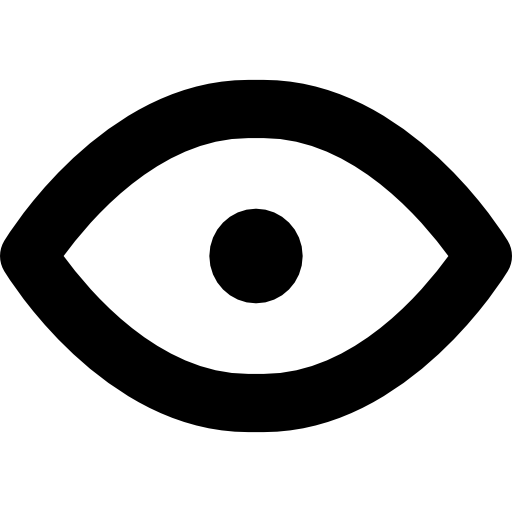
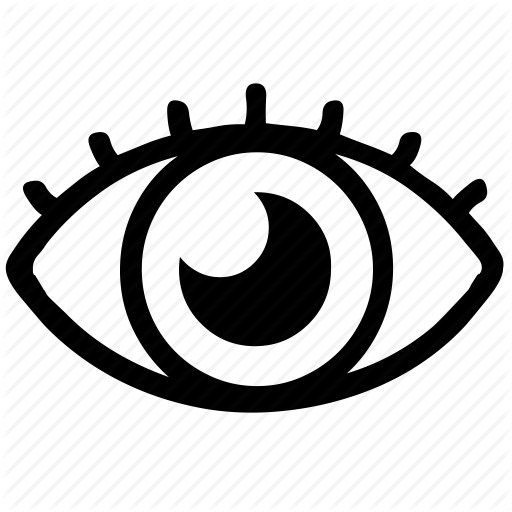
changes

diff --git a/data-profiler-server/templates/coords_visual.html b/data-profiler-server/templates/coords_visual.html
@@ -1,0 +1,121 @@
+{{ define "title" }}Dataset Coordinates{{ end }}
+{{ define "body" }}
+
+<script src="https://code.jquery.com/jquery-3.1.1.min.js"></script>
+
+<script src="https://code.highcharts.com/highcharts.js"></script>
+<script src="https://code.highcharts.com/highcharts-3d.js"></script>
+<script src="https://code.highcharts.com/modules/exporting.js"></script>
+
+<div id="container" style="height: 800px"></div>
+
+<script>
+
+// Give the points a 3D feel by adding a radial gradient
+Highcharts.getOptions().colors = $.map(Highcharts.getOptions().colors, function (color) {
+    return {
+        radialGradient: {
+            cx: 0.4,
+            cy: 0.3,
+            r: 0.5
+        },
+        stops: [
+            [0, color],
+            [1, Highcharts.Color(color).brighten(-0.2).get('rgb')]
+        ]
+    };
+});
+
+// Set up the chart
+var chart = new Highcharts.Chart({
+    chart: {
+        renderTo: 'container',
+        margin: 100,
+        type: 'scatter',
+        options3d: {
+            enabled: true,
+            alpha: 10,
+            beta: 30,
+            depth: 250,
+            viewDistance: 5,
+            fitToPlot: false,
+            frame: {
+                bottom: { size: 1, color: 'rgba(0,0,0,0.02)' },
+                back: { size: 1, color: 'rgba(0,0,0,0.04)' },
+                side: { size: 1, color: 'rgba(0,0,0,0.06)' }
+            }
+        }
+    },
+    title: {
+        text: 'Draggable box'
+    },
+    subtitle: {
+        text: 'Click and drag the plot area to rotate in space'
+    },
+    plotOptions: {
+        scatter: {
+            width: 10,
+            height: 10,
+            depth: 10
+        }
+    },
+    yAxis: {
+        min: 0,
+        max: 10,
+        title: null
+    },
+    xAxis: {
+        min: 0,
+        max: 10,
+        gridLineWidth: 1
+    },
+    zAxis: {
+        min: 0,
+        max: 10,
+        showFirstLabel: false
+    },
+    legend: {
+        enabled: false
+    },
+    series: [{
+        name: 'Reading',
+        colorByPoint: true,
+        data: [[1, 6, 5], [8, 7, 9], [1, 3, 4], [4, 6, 8], [5, 7, 7], [6, 9, 6], [7, 0, 5], [2, 3, 3], [3, 9, 8], [3, 6, 5], [4, 9, 4], [2, 3, 3], [6, 9, 9], [0, 7, 0], [7, 7, 9], [7, 2, 9], [0, 6, 2], [4, 6, 7], [3, 7, 7], [0, 1, 7], [2, 8, 6], [2, 3, 7], [6, 4, 8], [3, 5, 9], [7, 9, 5], [3, 1, 7], [4, 4, 2], [3, 6, 2], [3, 1, 6], [6, 8, 5], [6, 6, 7], [4, 1, 1], [7, 2, 7], [7, 7, 0], [8, 8, 9], [9, 4, 1], [8, 3, 4], [9, 8, 9], [3, 5, 3], [0, 2, 4], [6, 0, 2], [2, 1, 3], [5, 8, 9], [2, 1, 1], [9, 7, 6], [3, 0, 2], [9, 9, 0], [3, 4, 8], [2, 6, 1], [8, 9, 2], [7, 6, 5], [6, 3, 1], [9, 3, 1], [8, 9, 3], [9, 1, 0], [3, 8, 7], [8, 0, 0], [4, 9, 7], [8, 6, 2], [4, 3, 0], [2, 3, 5], [9, 1, 4], [1, 1, 4], [6, 0, 2], [6, 1, 6], [3, 8, 8], [8, 8, 7], [5, 5, 0], [3, 9, 6], [5, 4, 3], [6, 8, 3], [0, 1, 5], [6, 7, 3], [8, 3, 2], [3, 8, 3], [2, 1, 6], [4, 6, 7], [8, 9, 9], [5, 4, 2], [6, 1, 3], [6, 9, 5], [4, 8, 2], [9, 7, 4], [5, 4, 2], [9, 6, 1], [2, 7, 3], [4, 5, 4], [6, 8, 1], [3, 4, 0], [2, 2, 6], [5, 1, 2], [9, 9, 7], [6, 9, 9], [8, 4, 3], [4, 1, 7], [6, 2, 5], [0, 4, 9], [3, 5, 9], [6, 9, 1], [1, 9, 2]]
+    }]
+});
+
+
+// Add mouse events for rotation
+$(chart.container).on('mousedown.hc touchstart.hc', function (eStart) {
+    eStart = chart.pointer.normalize(eStart);
+
+    var posX = eStart.pageX,
+        posY = eStart.pageY,
+        alpha = chart.options.chart.options3d.alpha,
+        beta = chart.options.chart.options3d.beta,
+        newAlpha,
+        newBeta,
+        sensitivity = 5; // lower is more sensitive
+
+    $(document).on({
+        'mousemove.hc touchdrag.hc': function (e) {
+            // Run beta
+            newBeta = beta + (posX - e.pageX) / sensitivity;
+            chart.options.chart.options3d.beta = newBeta;
+
+            // Run alpha
+            newAlpha = alpha + (e.pageY - posY) / sensitivity;
+            chart.options.chart.options3d.alpha = newAlpha;
+
+            chart.redraw(false);
+        },
+        'mouseup touchend': function () {
+            $(document).off('.hc');
+        }
+    });
+});
+
+</script>
+{{ end }}
+
+{{ template "base.html" . }}

diff --git a/data-profiler-server/templates/datasets_view.html b/data-profiler-server/templates/datasets_view.html
@@ -66,16 +66,16 @@ No files found
 					<img src='/static/transform.png' width=30/></a>
 				</button>
 				<br/>
-				<button title="Delete Similarity Matrix" class="ui-button ui-widget ui-corner-all" 
+			<button title="Show coordinates" class="ui-button ui-widget ui-corner-all" 
+						onclick="window.location.href='/coords/{{ $m.ID }}/'">
+					<img src='/static/coordinates.png' width=30/></a>
+				</button>
+
+				<br/>
+				<button title="Delete Similarity Matrix" class="ui-button ui-widget ui-corner-all" style='background:#990000;' 
 						onclick="window.location.href='/sm/{{ $m.ID }}/delete/?datasetID={{$.ID}}'">
 					<img src='/static/delete.png' width=30/></a>
 				</button>
-				<button title="Show coordinates" class="ui-button ui-widget ui-corner-all" 
-						onclick="window.location.href='/coords/{{ $m.ID }}/'">
-					<img src='/static/delete.png' width=30/></a>
-				</button>
-
-
 		</td>
 </tr>
 {{ end }}

diff --git a/data-profiler-server/templates/base.html b/data-profiler-server/templates/base.html
@@ -6,6 +6,13 @@
 <script src="http://d3js.org/d3.v3.min.js"></script>
 <script src="https://code.jquery.com/jquery-1.12.4.js"></script>
 <script src="https://code.jquery.com/ui/1.12.1/jquery-ui.js"></script>
+<script src="https://code.highcharts.com/highcharts.js"></script>
+<script src="https://code.highcharts.com/modules/heatmap.js"></script>
+<script src="https://code.highcharts.com/modules/exporting.js"></script>
+<script src="https://code.highcharts.com/modules/data.js"></script>
+<script src="https://code.highcharts.com/modules/boost-canvas.js"></script>
+<script src="https://code.highcharts.com/modules/boost.js"></script>
+
 <script src="/static/script.js"></script>
 </head>
 <body>

diff --git a/data-profiler-server/templates/coords_view.html b/data-profiler-server/templates/coords_view.html
@@ -1,0 +1,24 @@
+{{ define "title" }}Dataset Coordinates{{ end }}
+{{ define "body" }} 
+<h1>Dataset Coordinates</h2>
+<table class='tablelist'>
+<tr>
+		<th>File</th>
+		<th>Dimensions</th>
+		<th>GoF</th>
+		<th>Actions</th>
+</tr>
+{{ range $i, $k := .}} 
+<tr>
+		<td><a href='/download/?type=coord&name={{$k.Filename}}&id={{$k.ID}}'>{{$k.Filename}}</a></td>
+<td>{{$k.K}}</td>
+<td>{{$k.GOF}}</td>
+<td>
+<button title="Show coordinates" class="ui-button ui-widget ui-corner-all" onclick="window.location.href='/coords/{{ $k.ID }}/visual'"> <img src='/static/coordinates.png' width=30/></a></button>
+</td>
+</tr>
+{{ end }}
+</table>
+{{ end }}
+
+{{ template "base.html" . }}

diff --git a/data-profiler-server/handlers.go b/data-profiler-server/handlers.go
@@ -21,6 +21,8 @@ var templateDependencies = map[string][]string{
 	"tasks.html":              {"base.html"},
 	"error.html":              {"base.html"},
 	"sm_heatmap.html":         {"base.html"},
+	"coords_view.html":        {"base.html"},
+	"coords_visual.html":      {"base.html"},
 	"forms/new_sm_form.html":  {},
 	"forms/new_mds_form.html": {},
 }
@@ -32,6 +34,8 @@ var routingControllerTemplates = map[string]cntTmpltCouple{
 	"datasets/view": {controllerDatasetView, "datasets_view.html"},
 	"tasks/":        {controllerTasksList, "tasks.html"},
 	"sm/visual":     {controllerSMVisual, "sm_heatmap.html"},
+	"coords/view":   {controllerCoordsView, "coords_view.html"},
+	"coords/visual": {controllerCoordsVisual, "coords_visual.html"},
 
 	// forms
 	"datasets/newsm": {controllerDatasetNewSM, "forms/new_sm_form.html"},

diff --git a/data-profiler-server/models.go b/data-profiler-server/models.go
@@ -346,7 +346,7 @@ func modelCoordinatesGet(id string) *ModelCoordinates {
 	return nil
 }
 
-func modelCoordinatesGetByMatrix(matrixId string) *ModelCoordinates {
+func modelCoordinatesGetByMatrix(matrixId string) []*ModelCoordinates {
 	db := dbConnect()
 	defer db.Close()
 
@@ -357,13 +357,14 @@ func modelCoordinatesGetByMatrix(matrixId string) *ModelCoordinates {
 		return nil
 	}
 	defer rows.Close()
-	if rows.Next() {
+	var result []*ModelCoordinates
+	for rows.Next() {
 		obj := new(ModelCoordinates)
 		rows.Scan(&obj.ID, &obj.Path, &obj.Filename, &obj.K,
 			&obj.GOF, &obj.matrixID)
-		return obj
+		result = append(result, obj)
 	}
-	return nil
+	return result
 }
 func modelCoordinatesInsert(coordinates []core.DatasetCoordinates, datasetID, K, GOF, matrixID string) {
 	dts := modelDatasetGetInfo(datasetID)

diff --git a/data-profiler-server/controllers.go b/data-profiler-server/controllers.go
@@ -140,3 +140,12 @@ func controllerMDSRun(w http.ResponseWriter, r *http.Request) Model {
 	return nil
 
 }
+
+func controllerCoordsView(w http.ResponseWriter, r *http.Request) Model {
+	_, id, _ := parseURL(r.URL.Path)
+	return modelCoordinatesGetByMatrix(id)
+}
+
+func controllerCoordsVisual(w http.ResponseWriter, r *http.Request) Model {
+	return nil
+}
